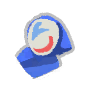
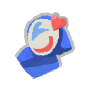
feat: update potion sale badge

Changed region(s): [[0.5682, 0.1364, 0.7955, 0.3636]]

diff --git a/CHANGELOG.md b/CHANGELOG.md
@@ -13,6 +13,10 @@ Security.
 
 ## [Unreleased]
 
+### Changed
+
+- Updated Potion sale run summary badge placeholder art
+
 ## [0.6.4] - 2026-08-09
 
 ### Added
